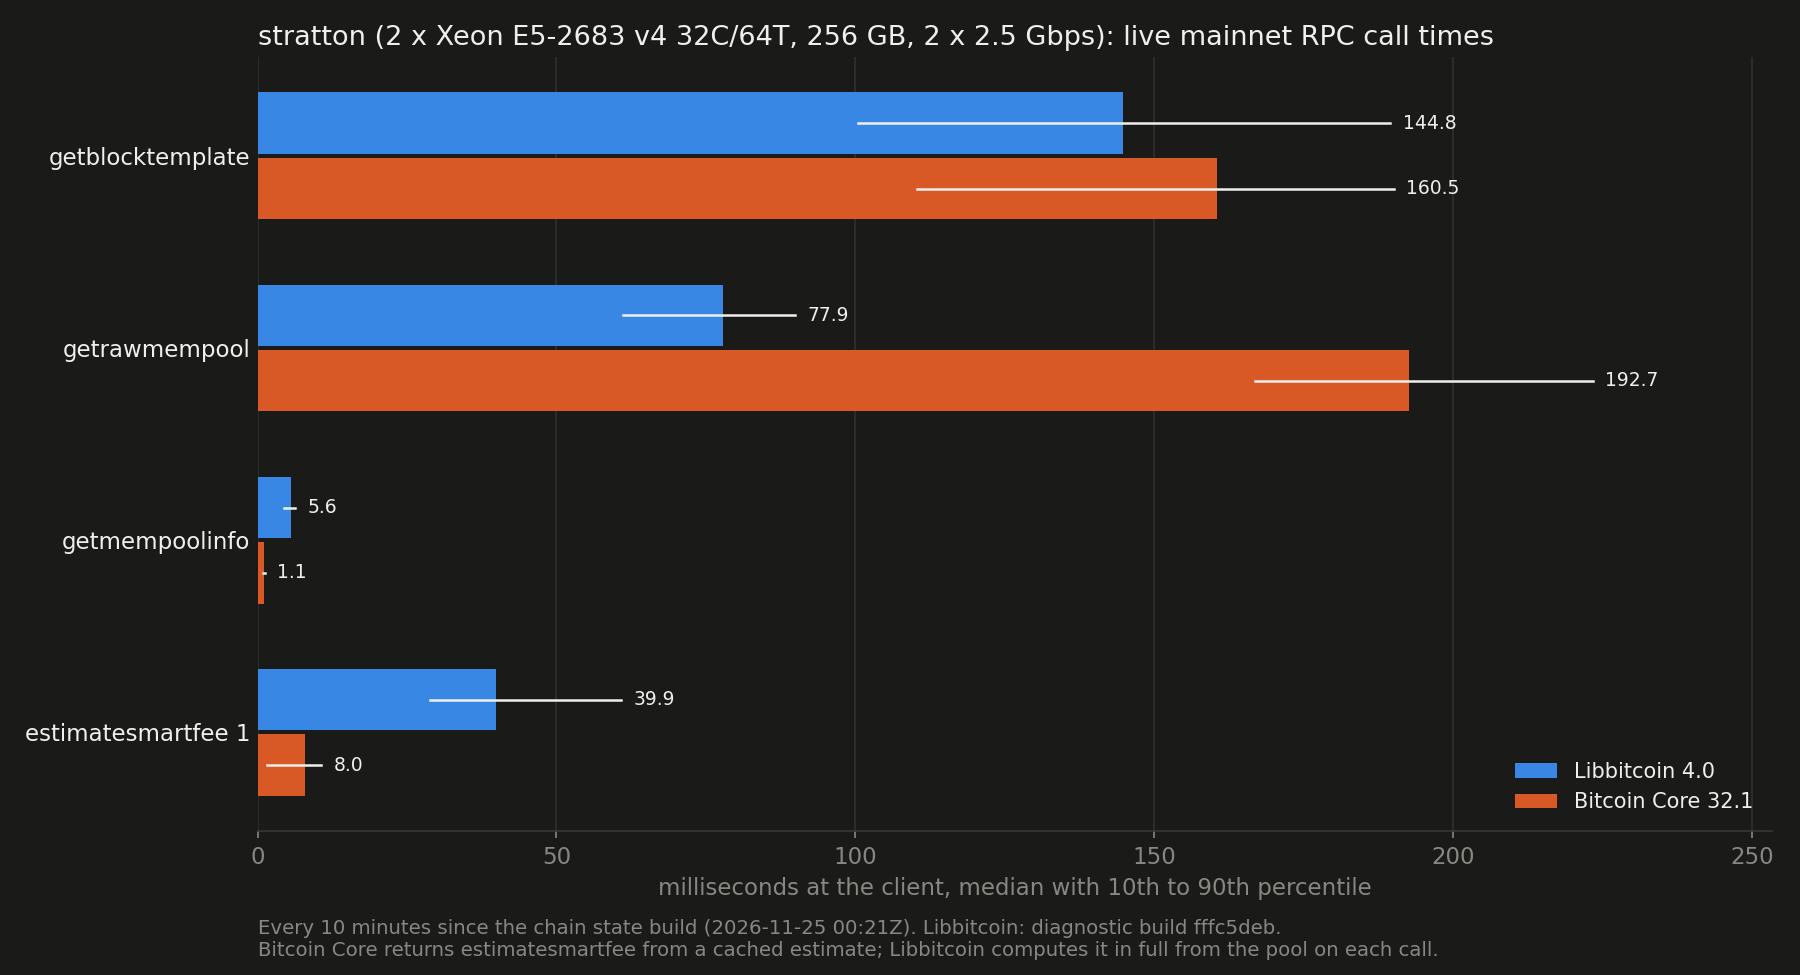
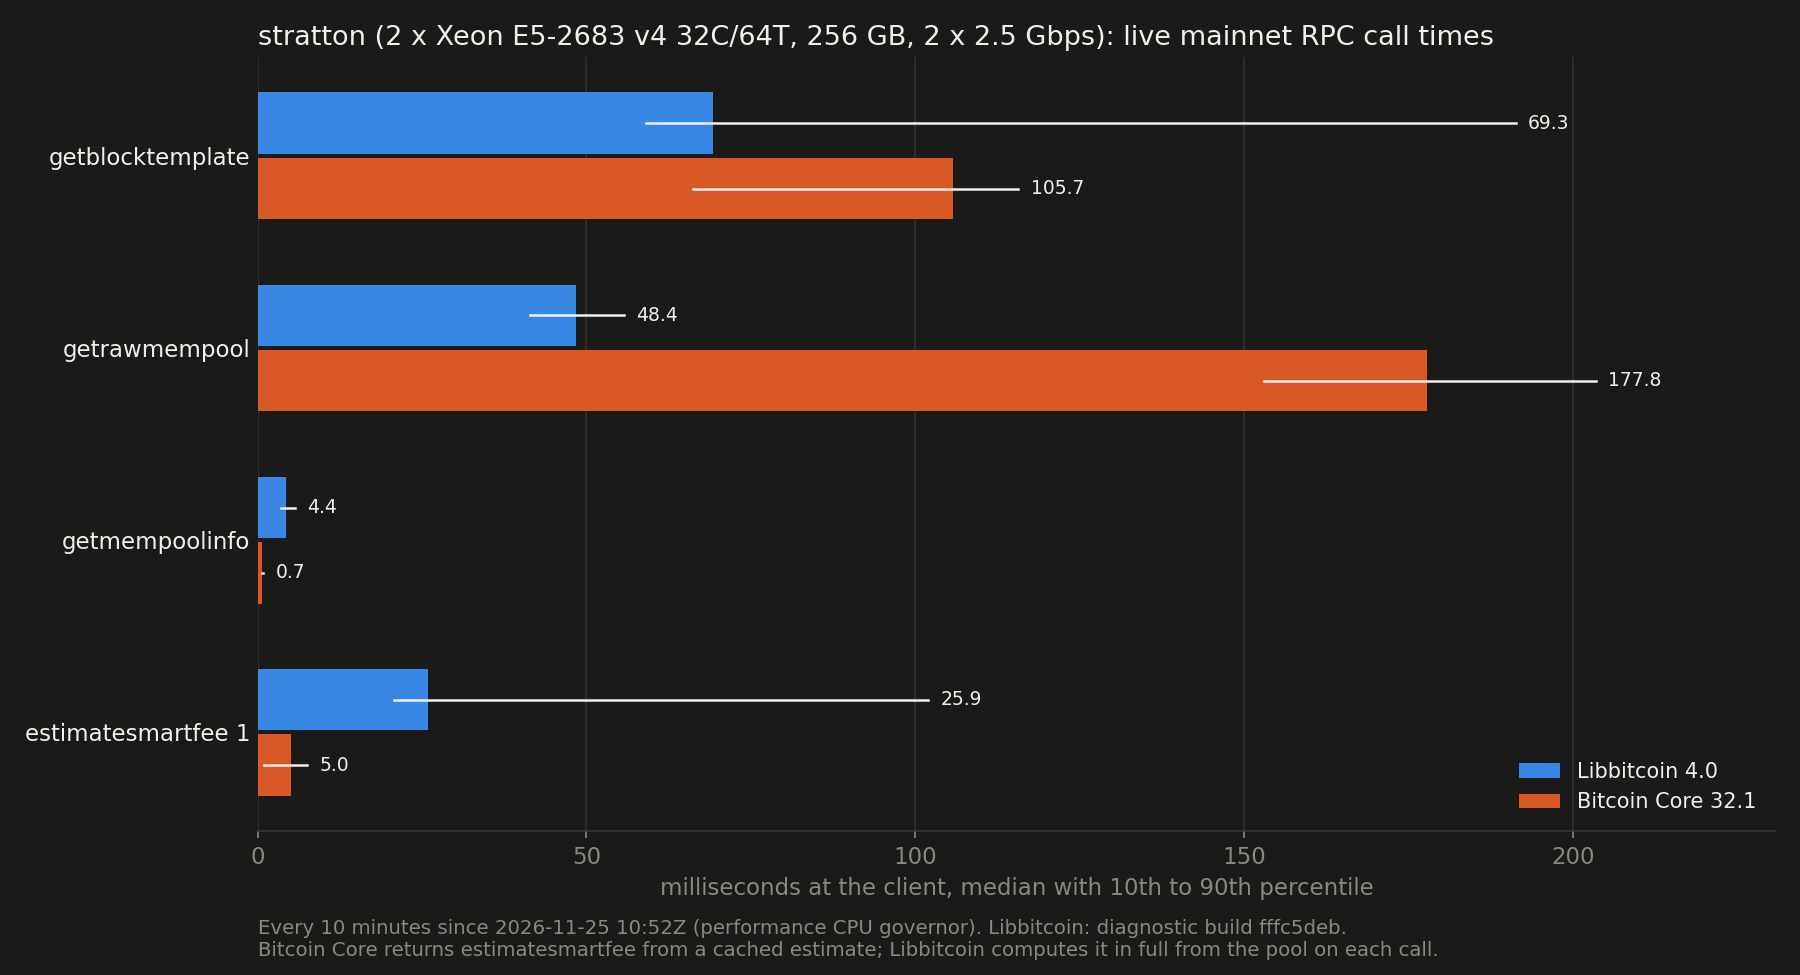
Update Mining Performance to performance governor runs.

diff --git a/mining.html b/mining.html
@@ -360,15 +360,16 @@
       communication (IPC) mining interface, by ZMQ block notification, or by polling every 100 ms. On regtest, a miner mines 20
       empty blocks 4 seconds apart, with 3,000 and then 10,000 independent transactions pooled,
       and each stack's first mining.notify is timed from the miner's generateblock call. Every first
-      job carried the full template. Median, at 3,000 and 10,000 pooled: Libbitcoin 14 and 27 ms,
-      ckpool by IPC 150 and 272 ms, by ZMQ 376 and 1,400 ms, by polling 394 and 1,360 ms.
+      job carried the full template. Median, at 3,000 and 10,000 pooled: Libbitcoin 9 and 16 ms,
+      ckpool by IPC 96 and 215 ms, by ZMQ 266 and 1,191 ms, by polling 285 and 1,284 ms.
     </p>
     <p class="lede after">
       A Libbitcoin job is the held template's coinbase parts and merkle branch. ckpool must have
       Bitcoin Core produce the full getblocktemplate, then fetch and parse it; IPC skips only the
-      JSON and HTTP. On 55 mainnet blocks (977,441 to 977,495), Libbitcoin's first job followed its
-      block organized by a median 66 ms, and ckpool's (polling) followed Bitcoin Core's tip update
-      by 1,203 ms, on one probe clock.
+      JSON and HTTP. On 36 mainnet blocks (977,508 to 977,543), Libbitcoin's first job followed its
+      block organized by a median 47 ms, and ckpool's (polling) followed Bitcoin Core's tip update
+      by 480 ms, on one probe clock. Bitcoin Core's figure swings with its own block handling, about
+      260 ms on some blocks and 1,100 to 1,650 ms on many others.
     </p>
   </section>
 
@@ -413,7 +414,7 @@
       deep). Independent transactions and chains give identical templates. Conflicts without
       children are at parity (+0.003%), since each conflicting transaction draws its fee
       independently and the replacement rules usually end on the highest. Conflict trees gain
-      20.93% (+18.81 to +25.10%), where Bitcoin Core kept 2,915 of the 9,000 transactions. Every
+      20.93% (+18.81 to +25.10%), where Bitcoin Core kept 2,905 to 2,927 of the 9,000 transactions. Every
       template from both nodes, 400 in the Monte Carlo and 40 in the fixed workloads, passed Bitcoin
       Core's block validity test.
     </p>
@@ -430,12 +431,12 @@
     <p class="lede after">
       Each node in turn takes the same signed transactions over loopback P2P, announced by inv and
       served on getdata. Rate is transactions offered over the time to the last pool change, and CPU
-      is process CPU per pooled transaction. Libbitcoin takes 4,577 to 4,808 transactions per
-      second on every workload, 1.3 to 3.7 times Bitcoin Core's 1,265 to 3,410. On independent
-      transactions and chains it spends more CPU per transaction (349 to 356 &micro;s against 198 to
-      206). On conflicts and conflict trees, where Bitcoin Core keeps one transaction per conflicted
-      output, Libbitcoin spends less per transaction (369 and 360 &micro;s) than Bitcoin Core spends
-      per transaction it keeps (602 and 730).
+      is process CPU per pooled transaction. Libbitcoin takes 5,863 to 6,031 transactions per
+      second on every workload, 1.7 to 4.7 times Bitcoin Core's 1,278 to 3,452. On independent
+      transactions and chains it spends more CPU per transaction (241 and 242 &micro;s against 172
+      and 176). On conflicts and conflict trees, where Bitcoin Core keeps one transaction per
+      conflicted output, Libbitcoin spends less per transaction (246 and 243 &micro;s) than Bitcoin
+      Core spends per transaction it keeps (497 and 574).
     </p>
     <p class="lede after">
       The Libbitcoin regtest store has tables sized for the chain, as a mainnet store has. On a store
@@ -455,11 +456,10 @@
     <p class="lede after">
       Each mainnet block from organized to template issued, split by Libbitcoin's diagnostic events
       into pool indexing, chain state, other wait, template computation and issue. The median is
-      61 ms (40 to 117): pool indexing 19 ms, chain state 0.016 ms, other wait 0.085 ms,
-      computation 28 ms and issue 16 ms. The pool advances its chain state by one header per block
-      and reads the store only at start or on a reorganization. Computation varies from about 12 to
-      90 ms with the work of packing what lands at the block's tail, scaled by the processor clock,
-      since stratton's frequency governor runs timer-started builds near 1.2 GHz.
+      43 ms (29 to 184): pool indexing 12 ms, chain state 0.014 ms, other wait 0.108 ms,
+      computation 21 ms and issue 6 ms. The pool advances its chain state by one header per block
+      and reads the store only at start or on a reorganization. Computation varies with the work
+      of packing what lands at the block's tail.
     </p>
   </section>
 
@@ -481,14 +481,14 @@
     </div>
     <p class="lede after">
       Every 10 minutes, getblocktemplate from both nodes on the same machine at the same height.
-      The median template fee difference is +0.013%, Libbitcoin higher or equal in 34 of 57 rounds.
-      The live pool is flat, its template tail near the relay floor, so packing differences are
-      small; the gains appear where conflicts sit near the block boundary.
+      The median template fee difference is &minus;0.030%, Libbitcoin higher or equal in 16 of 39
+      rounds, ranging from &minus;1.2% to +2.0%. The live pool is flat, its template tail near the
+      relay floor, so packing differences are small either way.
     </p>
     <p class="lede after">
-      Median call times at the client: getblocktemplate 144.8 ms Libbitcoin and 160.5 ms Bitcoin
-      Core, getrawmempool 77.9 and 192.7 ms, getmempoolinfo 5.6 and 1.1 ms, and estimatesmartfee
-      39.9 and 8.0 ms. Bitcoin Core returns estimatesmartfee from a cached estimate, while
+      Median call times at the client: getblocktemplate 69.3 ms Libbitcoin and 105.7 ms Bitcoin
+      Core, getrawmempool 48.4 and 177.8 ms, getmempoolinfo 4.4 and 0.7 ms, and estimatesmartfee
+      25.9 and 5.0 ms. Bitcoin Core returns estimatesmartfee from a cached estimate, while
       Libbitcoin computes it in full from the pool on each call.
     </p>
   </section>
@@ -497,7 +497,7 @@
     <h2 id="methodology">Methodology<a class="anchor" href="#methodology" aria-label="Link to this section">#</a></h2>
     <p class="lede">
       Libbitcoin and <strong>Bitcoin Core 32.1</strong> run on the same machine, stratton (2 x Xeon
-      E5-2683 v4 32C/64T, 256 GB), and both reserve 2,332 WU and 400 sigops for the coinbase
+      E5-2683 v4 32C/64T, 256 GB, performance CPU governor), and both reserve 2,332 WU and 400 sigops for the coinbase
       (Libbitcoin <code>pool.coinbase_weight = 2000</code>, Bitcoin Core
       <code>blockreservedweight=2332</code>). Regtest runs use a third Bitcoin Core node as the
       miner, and run Bitcoin Core without its regtest consistency checks
